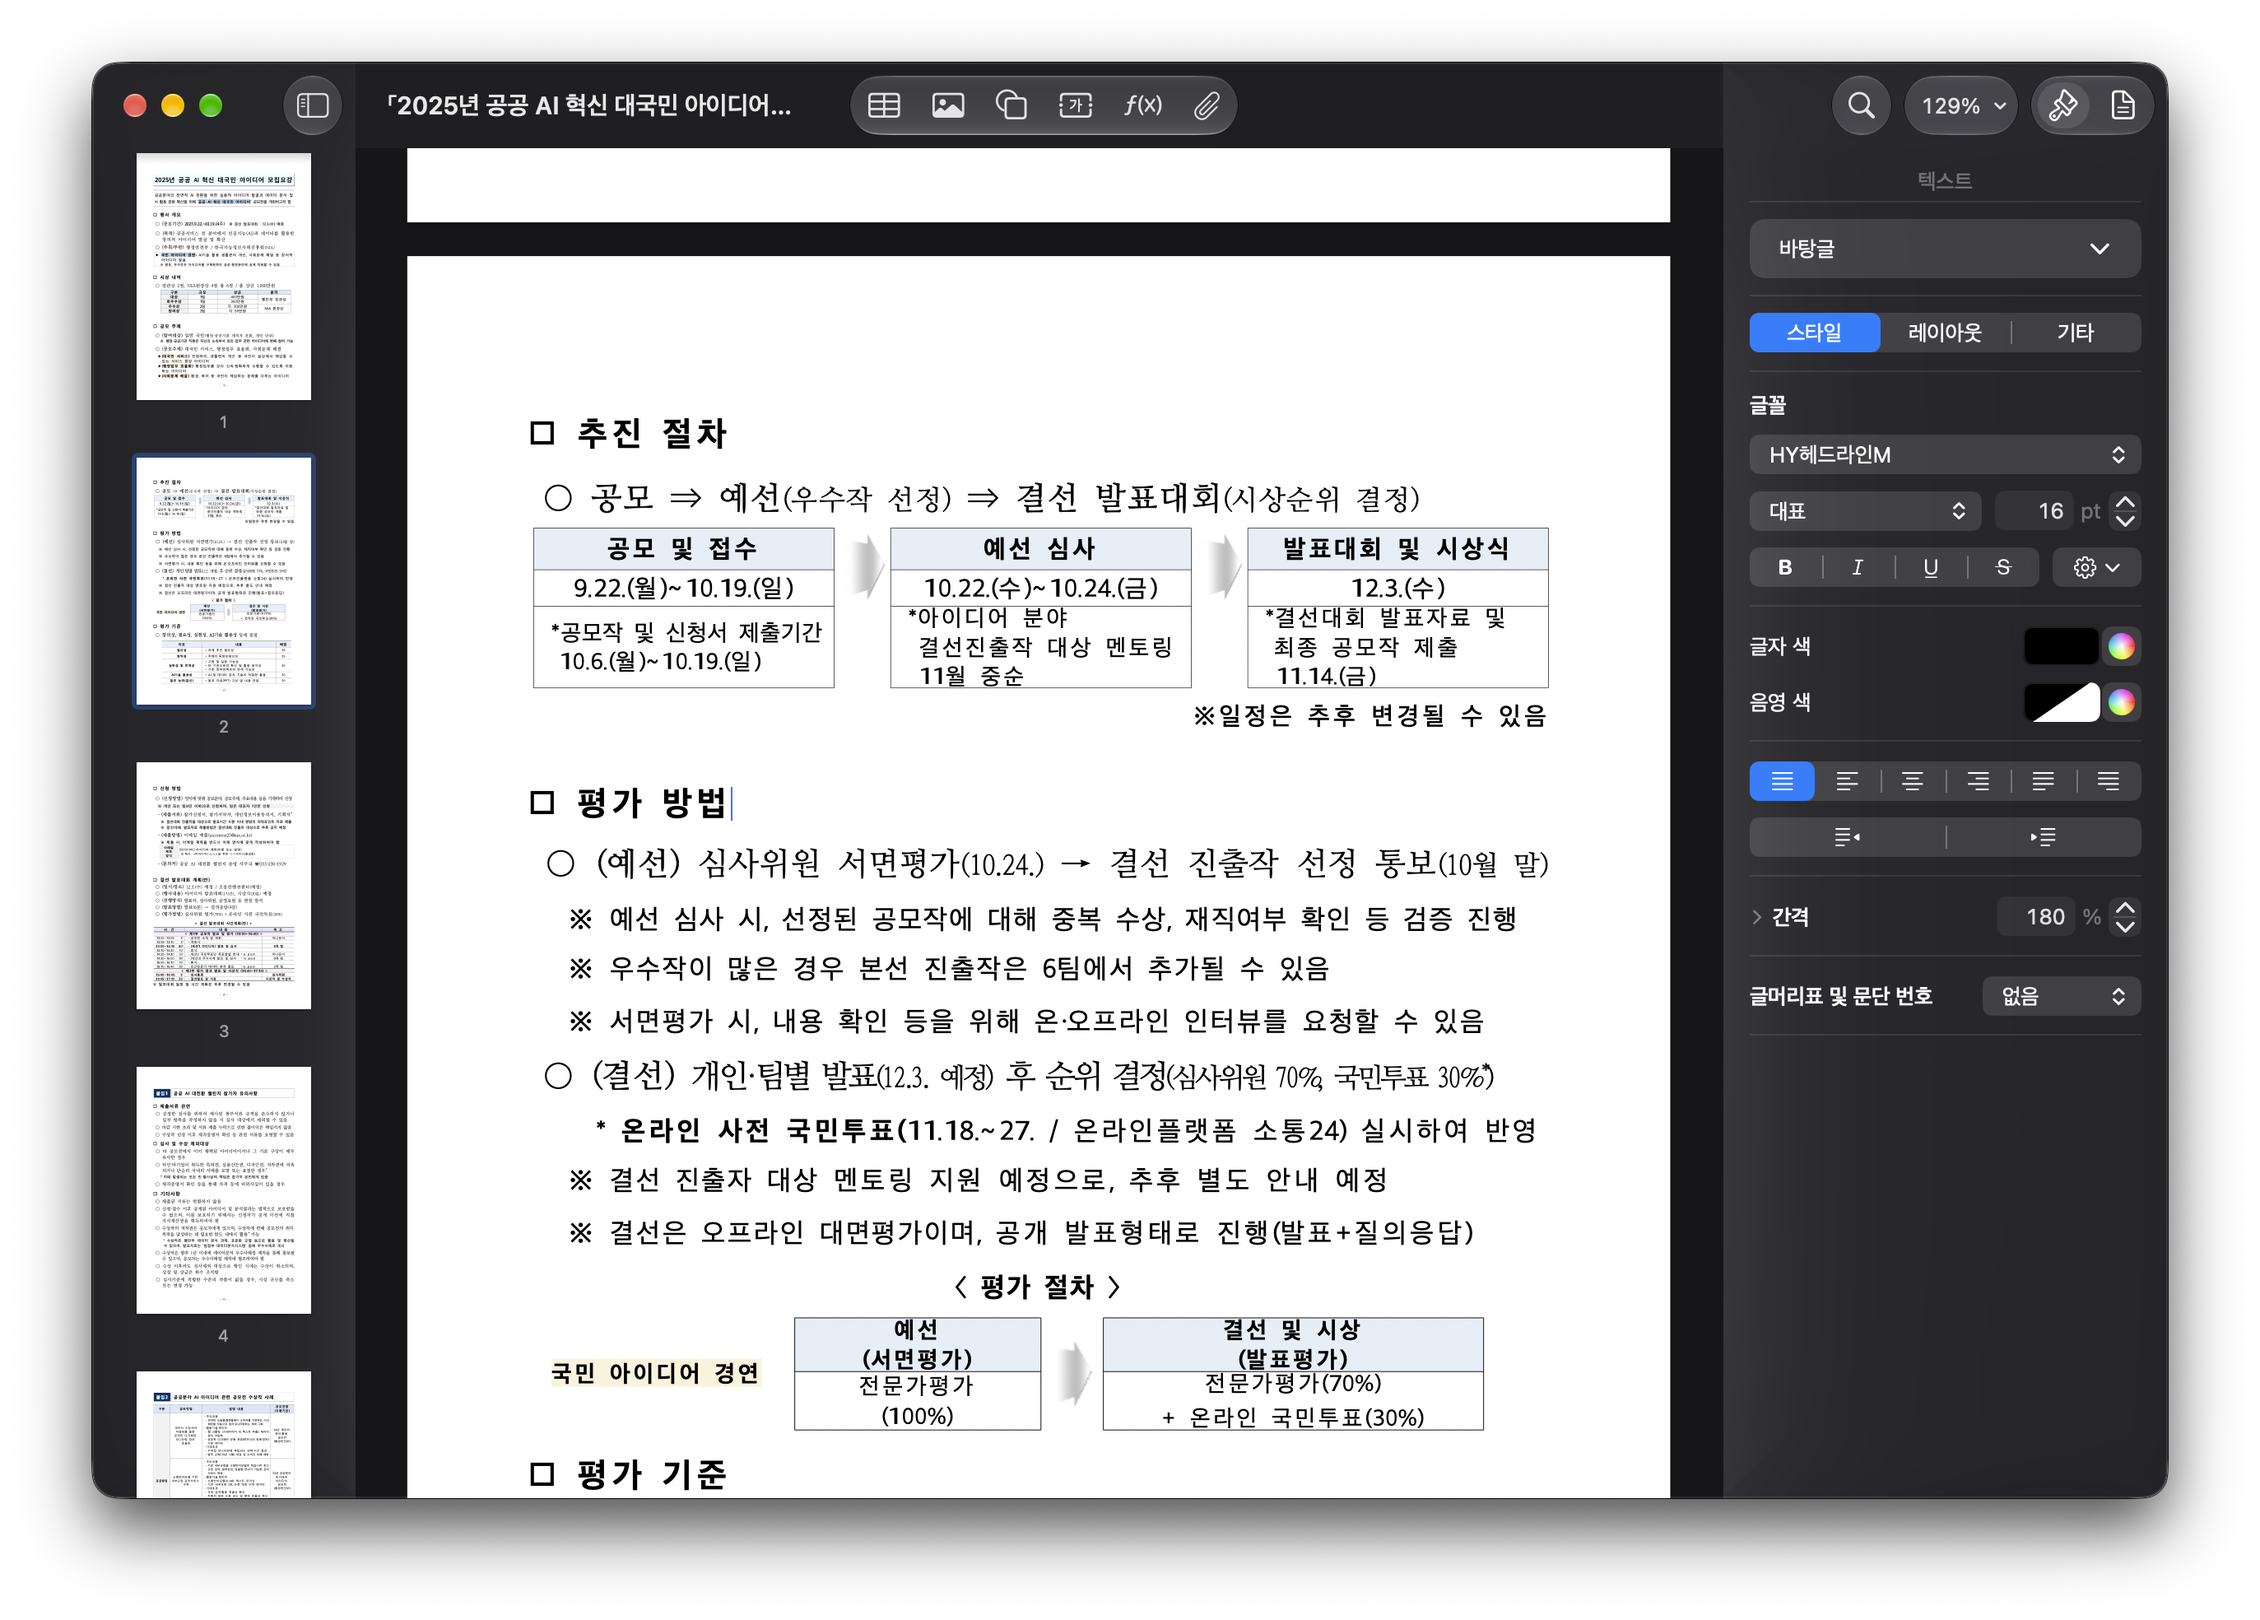
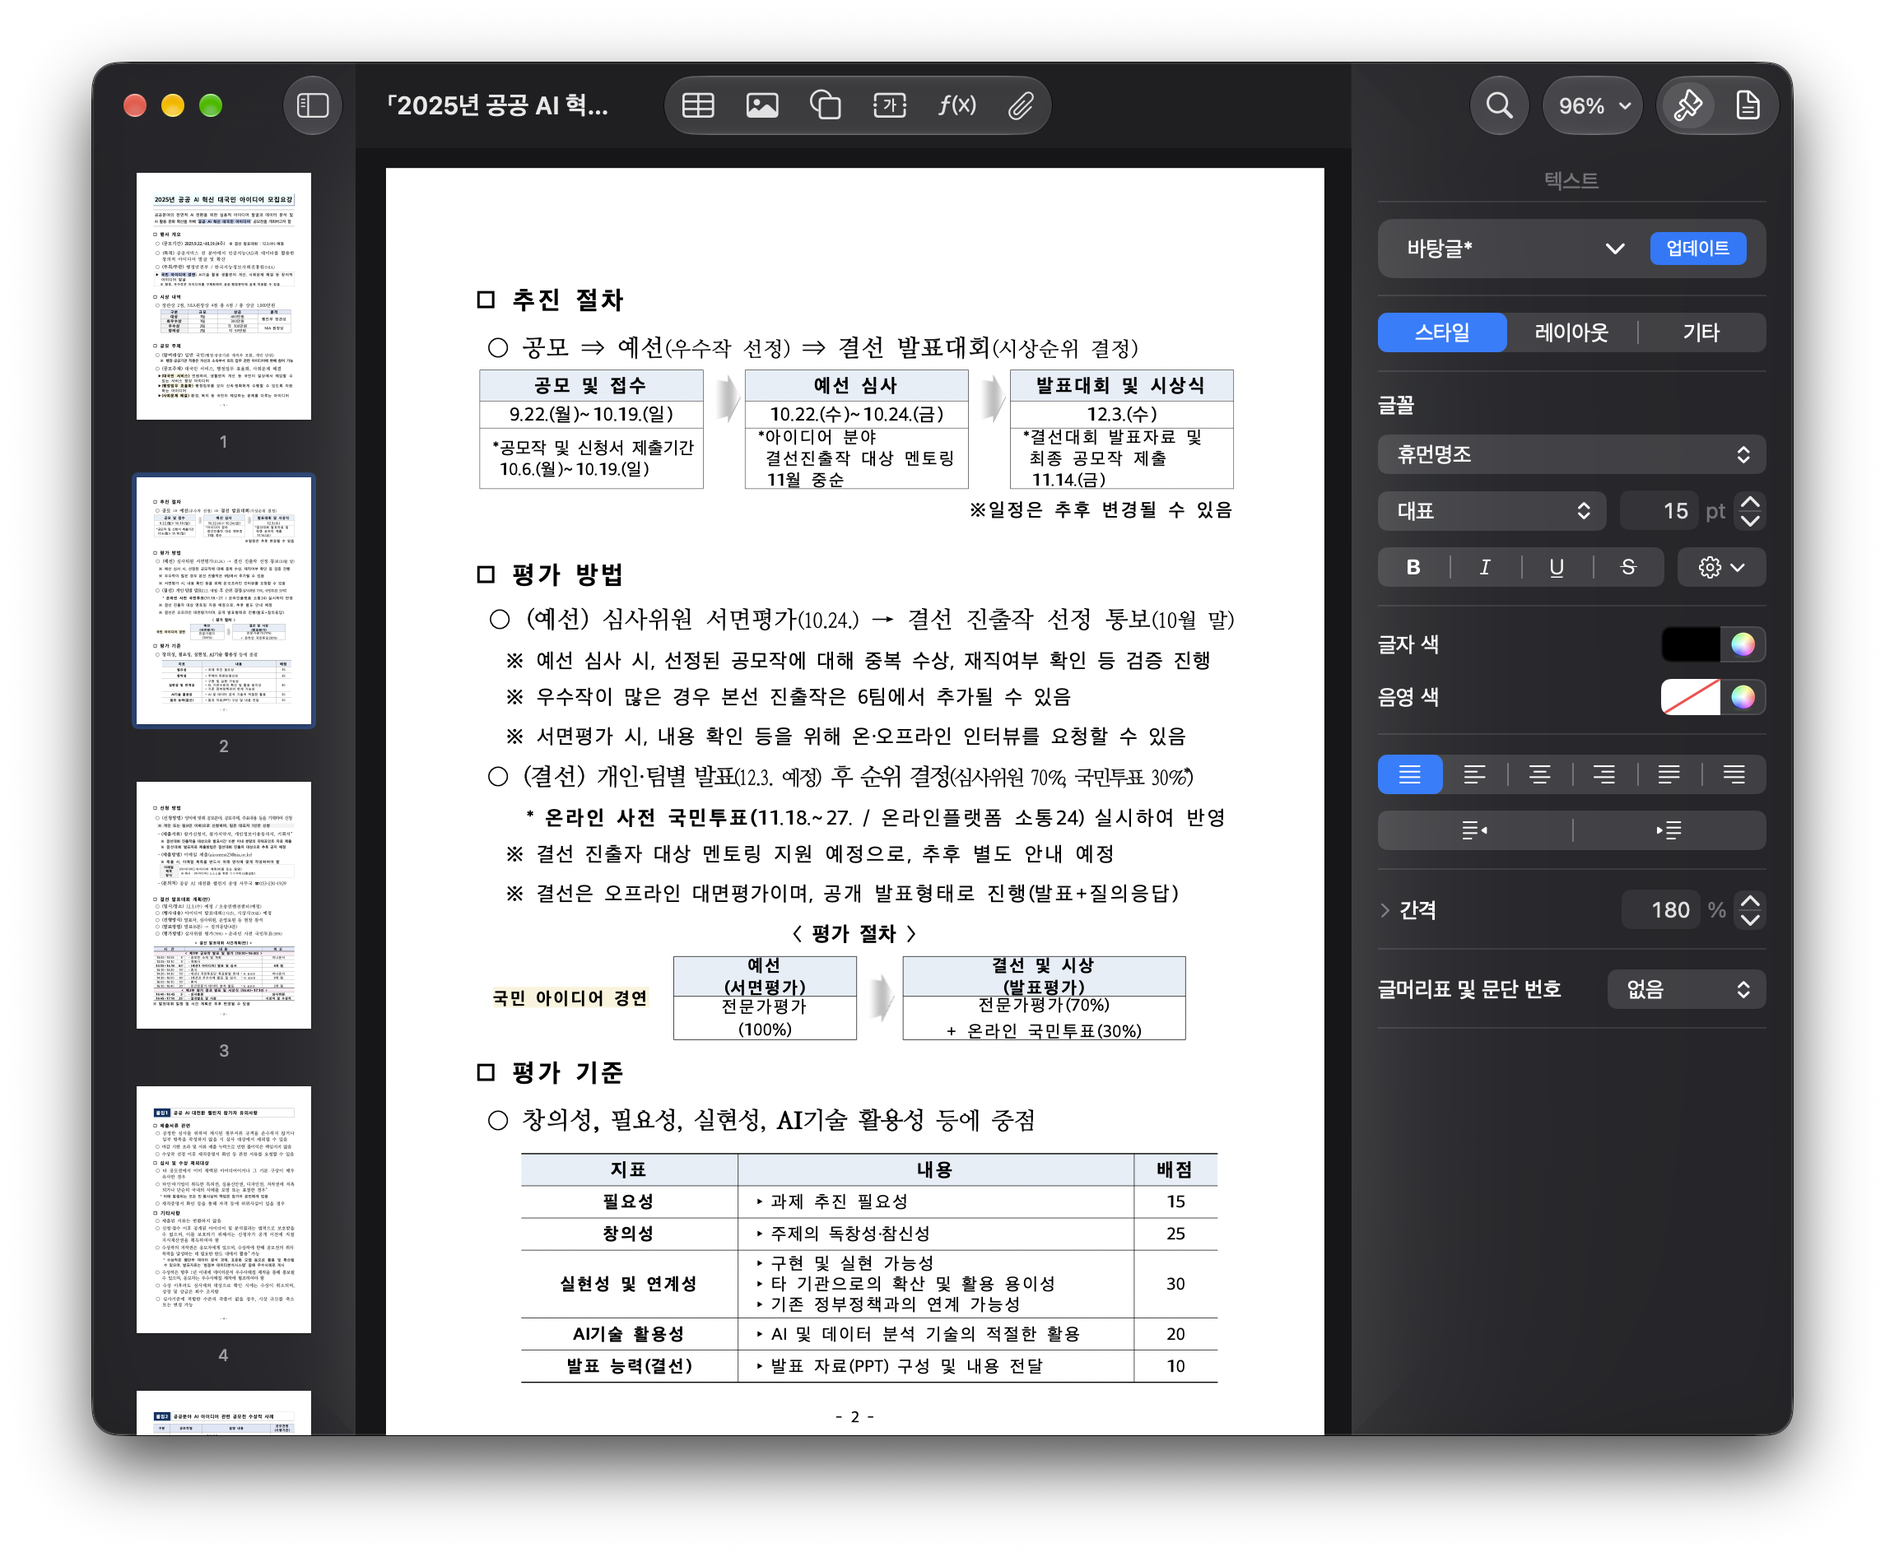
README shows the dark screenshot

Changed region(s): [[0.031, 0.0312, 0.9921, 0.9667]]

diff --git a/README.md b/README.md
@@ -6,7 +6,7 @@
 
 <p align="center">Mac에서 한글 문서를 바로 열고 수정하는 네이티브 편집기.</p>
 
-![Hwalja](docs/images/screenshot.png)
+![Hwalja](docs/images/screenshot_dark.png)
 
 ## 설치
 
